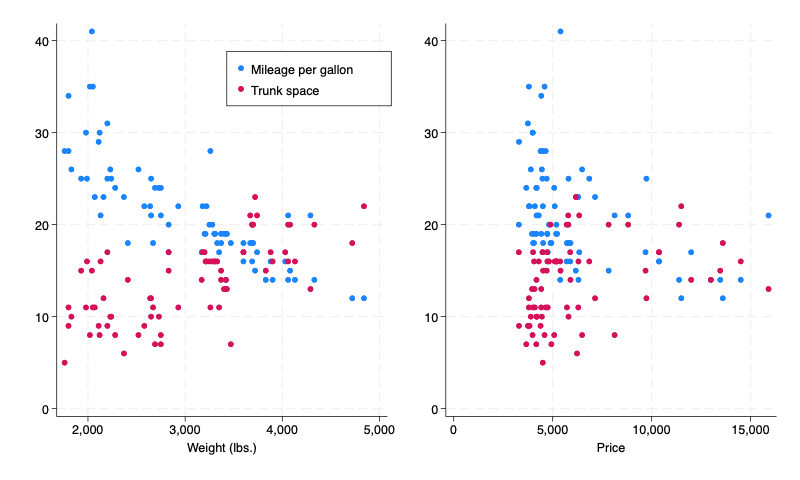
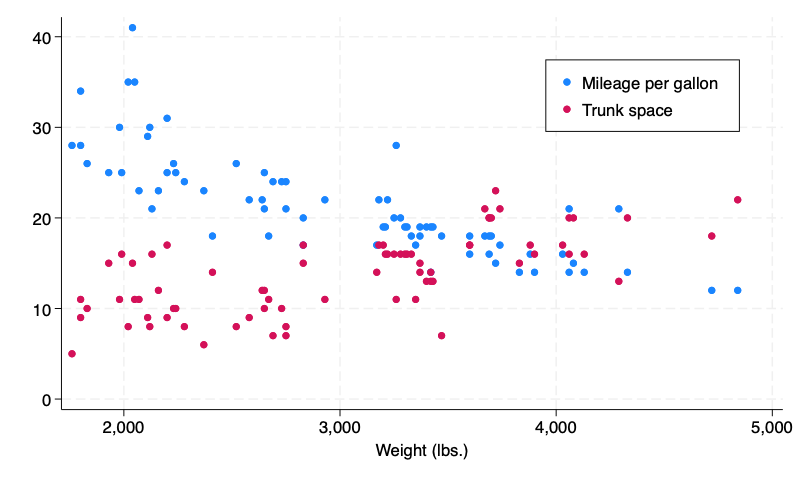
latest version

diff --git a/README.md b/README.md
@@ -66,31 +66,44 @@ The following example illustrates how headings can be created.
 
 ![example 4](/images/4.png)
 
-The `addplot` command ([Jann 2015](https://doi.org/10.1177/1536867X1501500308); type
-`ssc install addplot` to install the command) can be used to add a legend
-after a graph has been created. This can be useful, for example,
-if a graph has been created using `graph combine`, as in the following example.
+Use the `addlegend` command, which is part of the `mklegend` package, to create
+a legend and add it directly to a graph that already exists in memory.
+`addlegend` makes use of command `addplot` 
+([Jann 2015](https://doi.org/10.1177/1536867X1501500308)), which needs to be installed
+on the system (type `ssc install addplot`). An example is as follows.
+
+    sysuse auto
+    scatter mpg trunk weight
+    addlegend y=35 x=4000 h=2 w=100, frame(w(900)): ///
+           () "Mileage per gallon" ///
+        || () "Trunk space"
+
+![example 5](/images/5.png)
+
+In case of a graph that contains multiple subgraphs, use option `plot()` to select
+the subgraph to which the legend should be added:
 
     sysuse auto
     scatter mpg trunk weight, legend(off) name(weight, replace)
     scatter mpg trunk price, legend(off) name(price, replace)
     graph combine weight price
-    mklegend y=37 x=3500 h=1.5 w=150, frame(w(1700)): ///
+    addlegend y=37 x=3500 h=1.5 w=150, plot(1) frame(w(1700)): ///
            () "Mileage per gallon" ///
         || () "Trunk space"
-    addplot 1: `r(legend)', norescaling
-
-![example 5](/images/5.png)
-
-A limitation of `mklegend` is that it can only place the legend within the
-plot region. A workaround is provided by the `addplot` command:
-
-    sysuse auto
-    scatter mpg trunk weight, legend(off) graphregion(margin(r=40))
-    mklegend y=5 x=5100 h=2 w=100: () "Mileage per gallon" || () "Trunk space"
-    addplot: `r(legend)', norescaling
 
 ![example 6](/images/6.png)
+
+The `addlegend` command can place the legend outside of the plot region,
+but you must make sure that there is sufficient space in the graph's margin.
+Use option `margin()` for this purpose:
+
+    sysuse auto
+    scatter mpg trunk weight
+    addlegend y=5 x=5100 h=2 w=100, margin(r=40): ///
+           () "Mileage per gallon" ///
+        || () "Trunk space"
+
+![example 7](/images/7.png)
 
 ---
 
